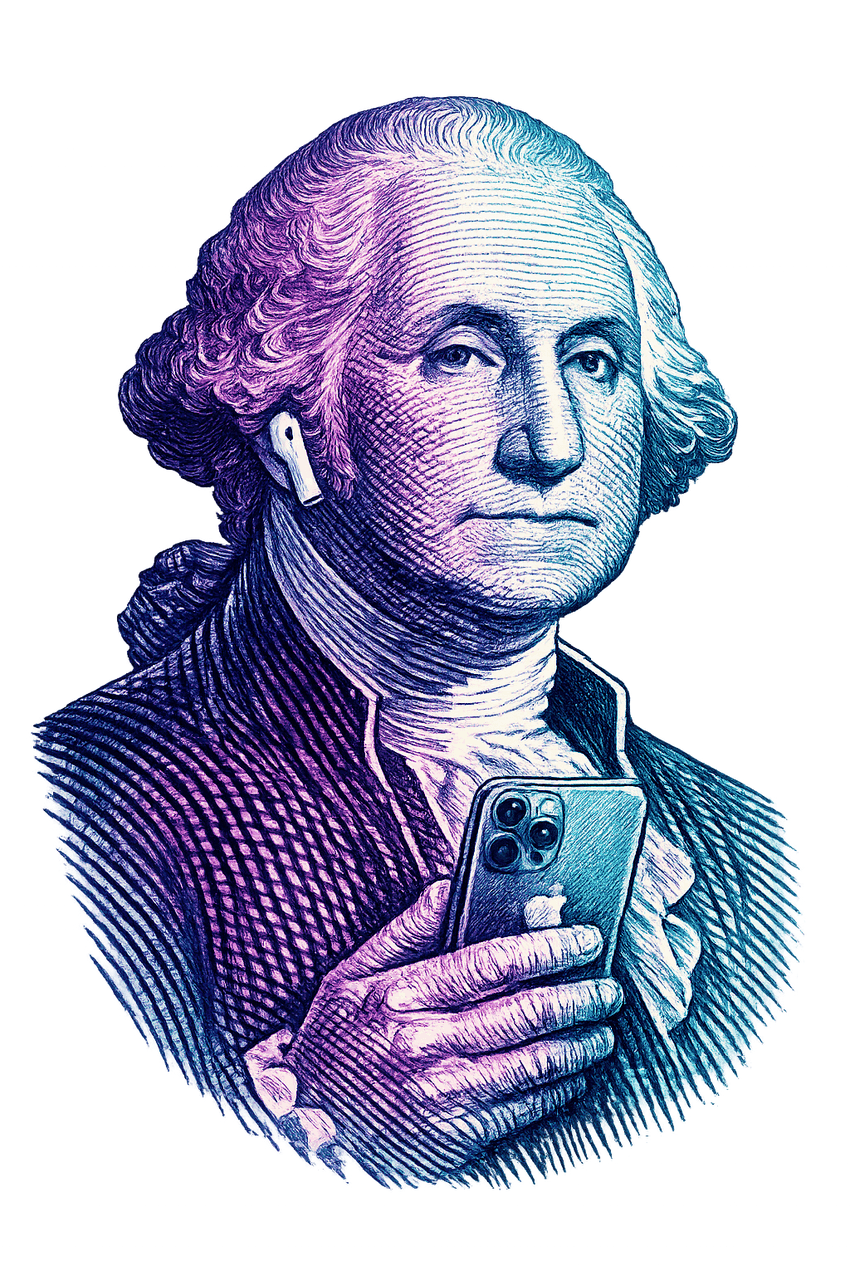
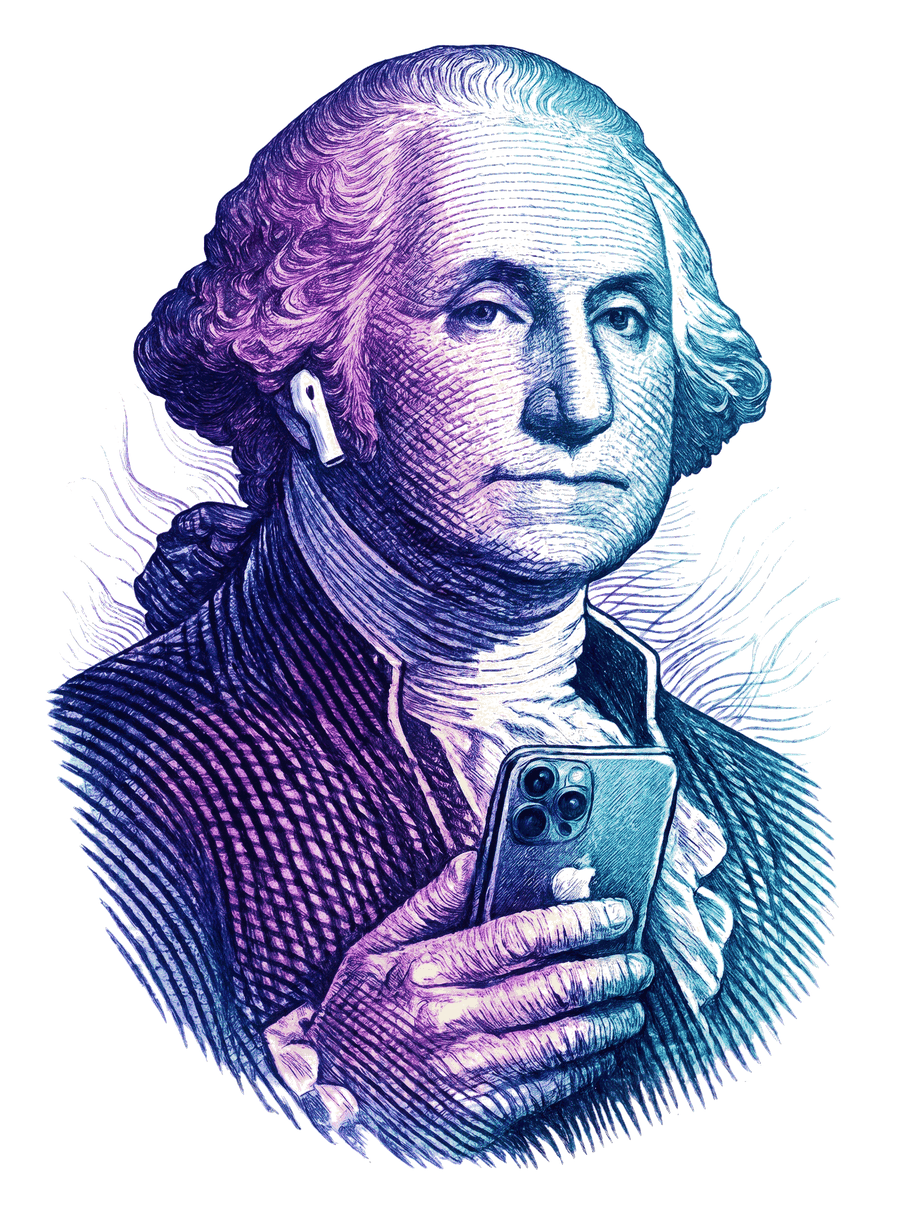
Hero: shift to Delt indigo palette + new atmospheric-bleed George
- Regenerate the Washington portrait in Delt's indigo -> violet -> cyan
  duotone (was blue -> magenta -> teal). Add wispy engraved tendrils that
  extend past his silhouette and fade to transparent so he dissolves into
  the gradient bg instead of reading as a hard cutout. Keyed out the
  white halo from the generation pass so the file is truly transparent.
- Recolor the hero gradient: keep the navy -> indigo base but swap the
  teal glow bottom-right for a soft-cyan glow (#7DD3FC) and deepen the
  indigo mid tones (#0A1A6E, #1E1B7A). Distinctly Delt, no longer Plaid.
- Recolor the topography-ring stroke from indigo (#9BB4FF) to soft cyan
  (#7DD3FC).
- Swap the 'business.' accent from mint -> teal to indigo (#4945FF) ->
  soft indigo (#7C6BFF) -> cyan (#7DD3FC).
- Swap the portrait's teal + magenta glow for cyan + indigo to match the
  new duotone.
- Recolor the anchor-card action pills from mint (#C4F6EA) to soft
  indigo (#C7D2FE) so they read as Delt CTAs, not Plaid CTAs.

diff --git a/app/variation-1.jsx b/app/variation-1.jsx
@@ -200,9 +200,10 @@ function V1Hero({ accent, onApply }) {
 
   return (
     <section style={{
-      // Rich Plaid-style gradient: Midnight Steel top-left → deep indigo mid →
-      // subtle teal bleed bottom-right where the portrait glows.
-      background: 'radial-gradient(120% 90% at 85% 65%, rgba(20, 184, 166, 0.18) 0%, rgba(4, 30, 66, 0) 55%), radial-gradient(80% 70% at 15% 20%, rgba(73, 69, 255, 0.22) 0%, rgba(4, 30, 66, 0) 55%), linear-gradient(160deg, #041E42 0%, #062852 45%, #073A5A 100%)',
+      // Delt indigo gradient: violet/cyan glows over a deep navy → indigo
+      // base. The colors echo the tones in the Washington duotone so the
+      // portrait dissolves into the background instead of sitting on top.
+      background: 'radial-gradient(120% 90% at 85% 65%, rgba(125, 211, 252, 0.18) 0%, rgba(4, 30, 66, 0) 55%), radial-gradient(80% 70% at 15% 20%, rgba(73, 69, 255, 0.28) 0%, rgba(4, 30, 66, 0) 55%), linear-gradient(160deg, #041E42 0%, #0A1A6E 60%, #1E1B7A 100%)',
       color: '#F7F5F0',
       position: 'relative',
       overflow: 'hidden',
@@ -218,14 +219,14 @@ function V1Hero({ accent, onApply }) {
       }}>
         <defs>
           <radialGradient id="v1heroTopoFade" cx="30%" cy="40%" r="65%">
-            <stop offset="0%" stopColor="rgba(129, 140, 248, 0.55)" />
+            <stop offset="0%" stopColor="rgba(125, 211, 252, 0.6)" />
             <stop offset="100%" stopColor="rgba(4, 30, 66, 0)" />
           </radialGradient>
           <mask id="v1heroTopoMask">
             <rect width="720" height="720" fill="url(#v1heroTopoFade)" />
           </mask>
         </defs>
-        <g mask="url(#v1heroTopoMask)" fill="none" stroke="#9BB4FF" strokeWidth="1">
+        <g mask="url(#v1heroTopoMask)" fill="none" stroke="#7DD3FC" strokeWidth="1">
           {Array.from({ length: 22 }, (_, i) => {
             const r = 40 + i * 22;
             return <circle key={i} cx="220" cy="300" r={r} />;
@@ -258,7 +259,8 @@ function V1Hero({ accent, onApply }) {
             <V1LineMask ready={mounted} delay={120}>You built the</V1LineMask>
             <V1LineMask ready={mounted} delay={230}>
               <span style={{
-                background: 'linear-gradient(90deg, #7DF9C6 0%, #52D6D4 60%, #4CC9F0 100%)',
+                // Delt indigo→cyan accent, no mint.
+                background: 'linear-gradient(90deg, #4945FF 0%, #7C6BFF 55%, #7DD3FC 100%)',
                 WebkitBackgroundClip: 'text', backgroundClip: 'text',
                 WebkitTextFillColor: 'transparent',
               }}>business.</span>
@@ -354,7 +356,7 @@ function V1Hero({ accent, onApply }) {
           <div aria-hidden style={{
             position: 'absolute',
             inset: '6% 4%',
-            background: 'radial-gradient(55% 50% at 55% 55%, rgba(76, 201, 240, 0.32) 0%, rgba(76, 201, 240, 0) 70%), radial-gradient(45% 40% at 45% 65%, rgba(168, 85, 247, 0.22) 0%, rgba(168, 85, 247, 0) 70%)',
+            background: 'radial-gradient(55% 50% at 55% 55%, rgba(125, 211, 252, 0.32) 0%, rgba(125, 211, 252, 0) 70%), radial-gradient(45% 40% at 45% 65%, rgba(73, 69, 255, 0.28) 0%, rgba(73, 69, 255, 0) 70%)',
             filter: 'blur(10px)',
             pointerEvents: 'none',
           }} />
@@ -416,7 +418,7 @@ function V1Hero({ accent, onApply }) {
                   width: '100%', textAlign: 'center',
                   fontFamily: DELT.font.body, fontSize: 12.5, fontWeight: 600,
                   color: '#0A2540',
-                  background: 'rgba(196, 246, 234, 0.94)',
+                  background: 'rgba(199, 210, 254, 0.94)',
                   border: 'none', borderRadius: 999,
                   padding: '8px 12px', cursor: 'pointer',
                   letterSpacing: '-0.005em',
